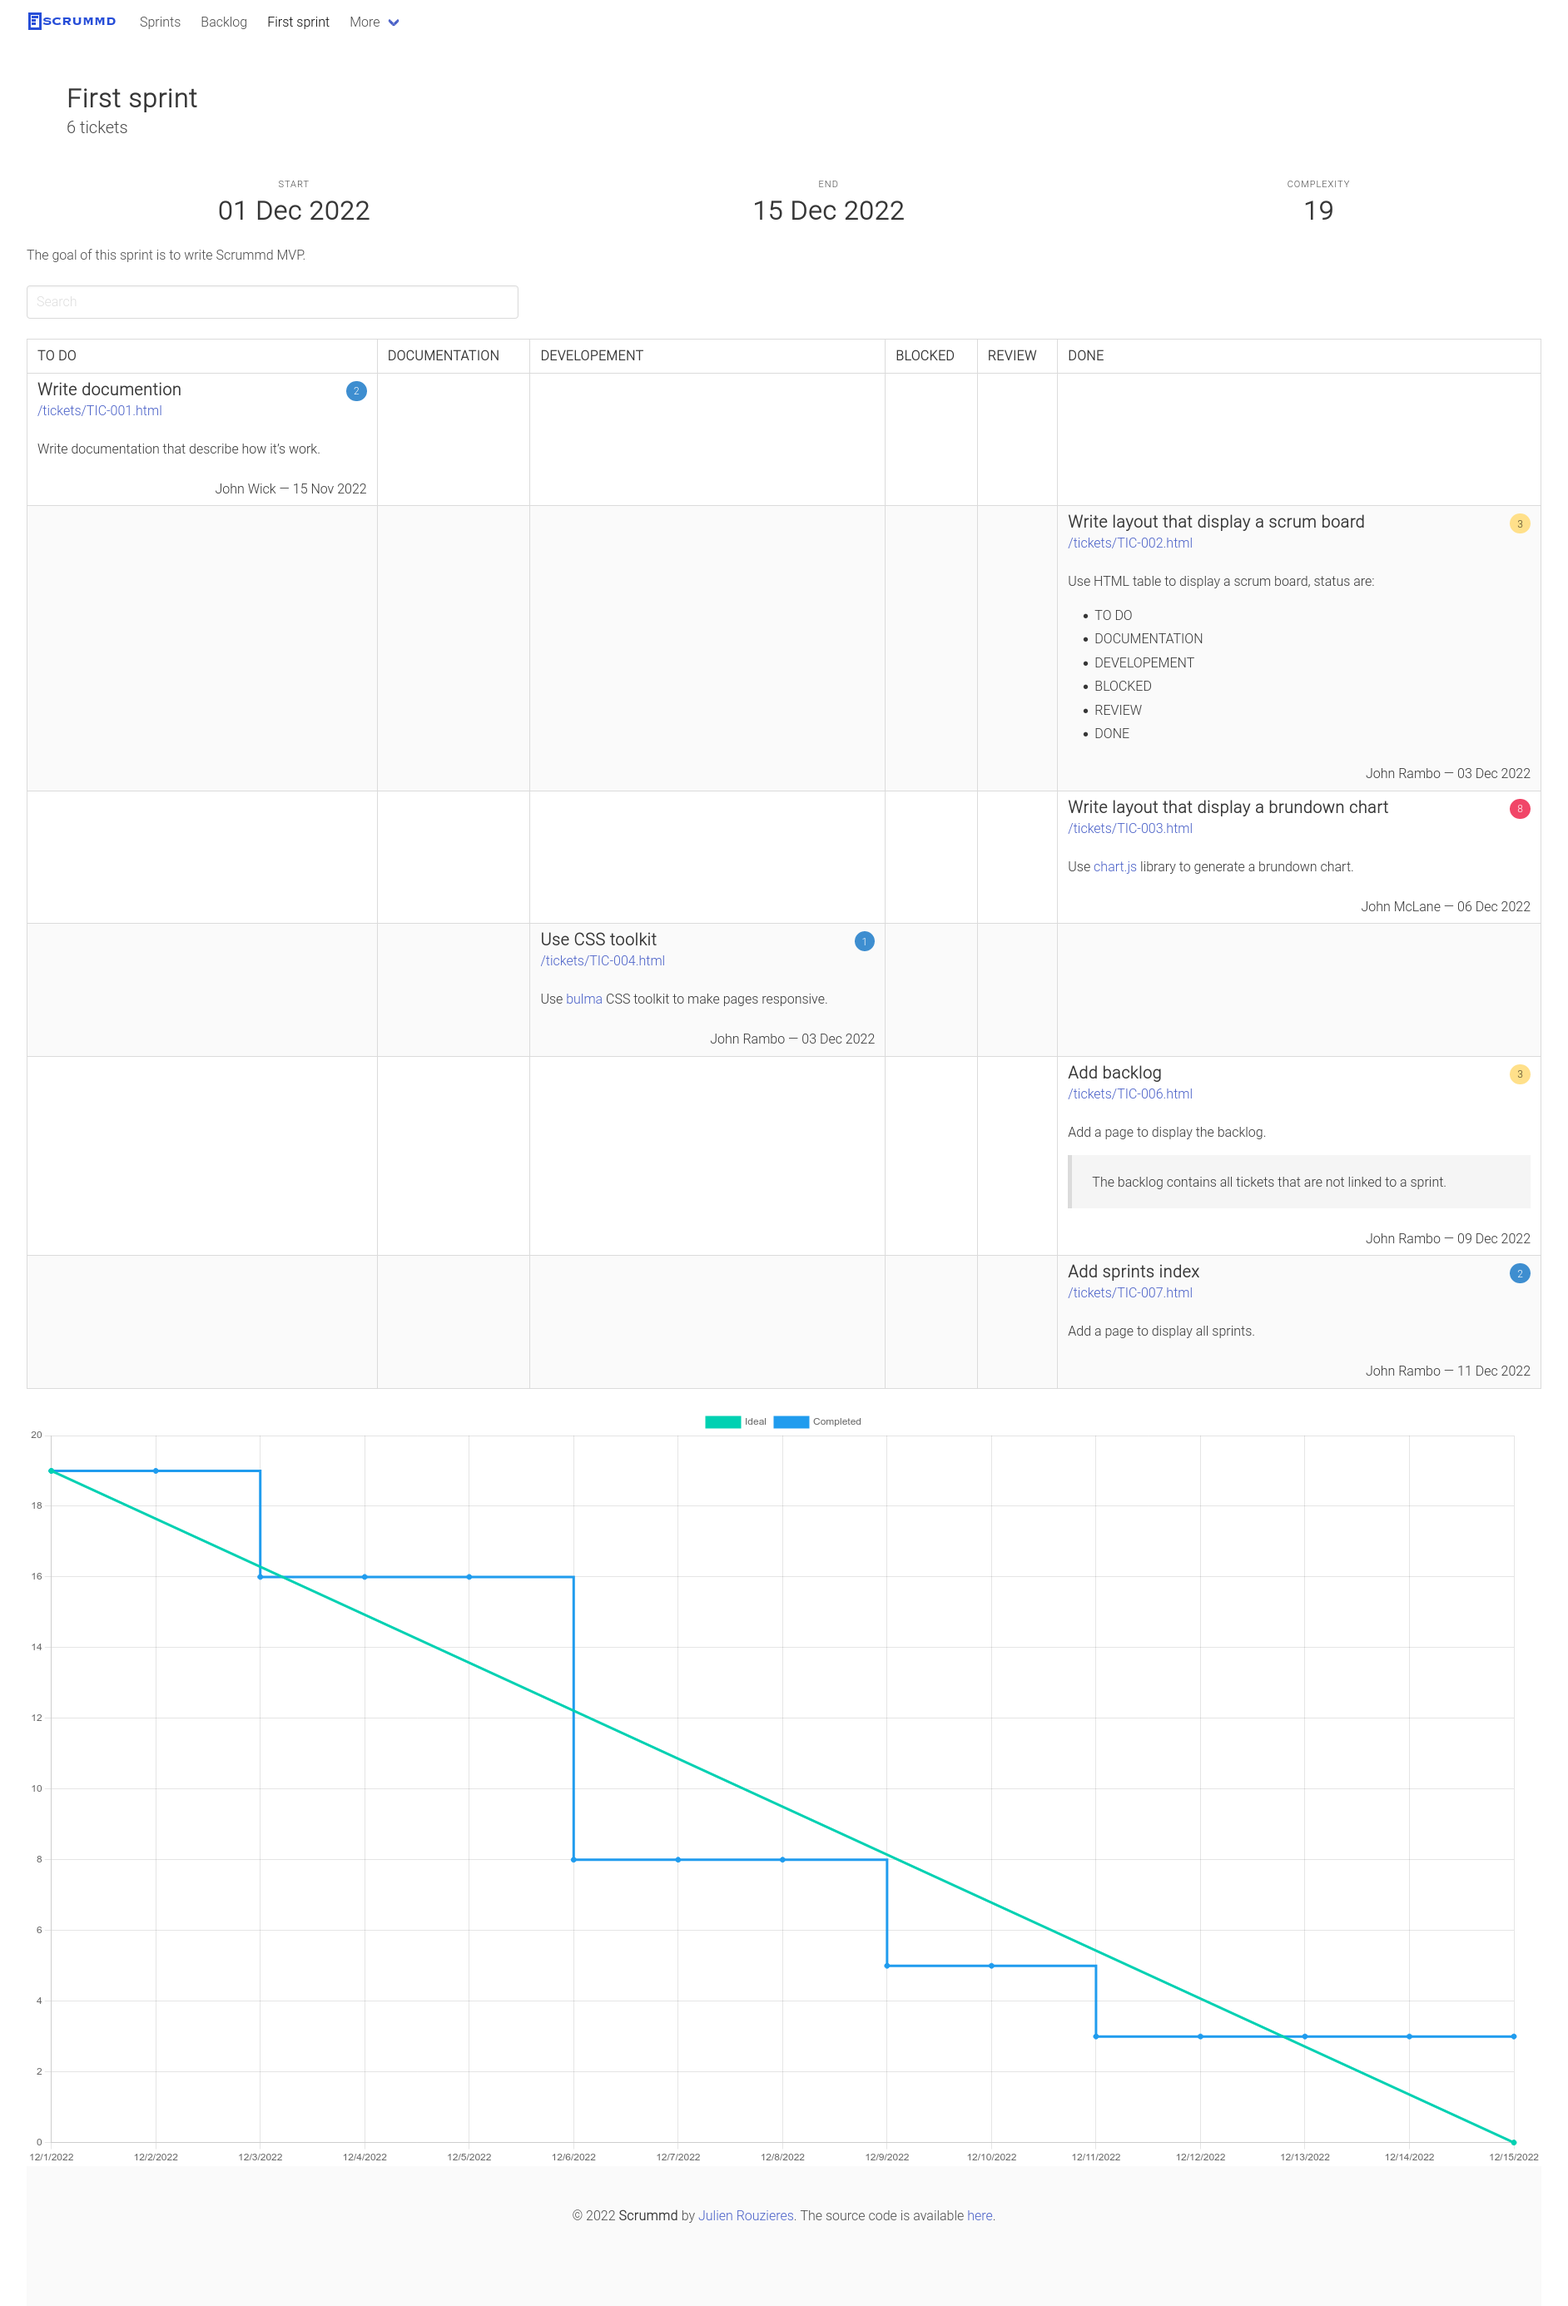
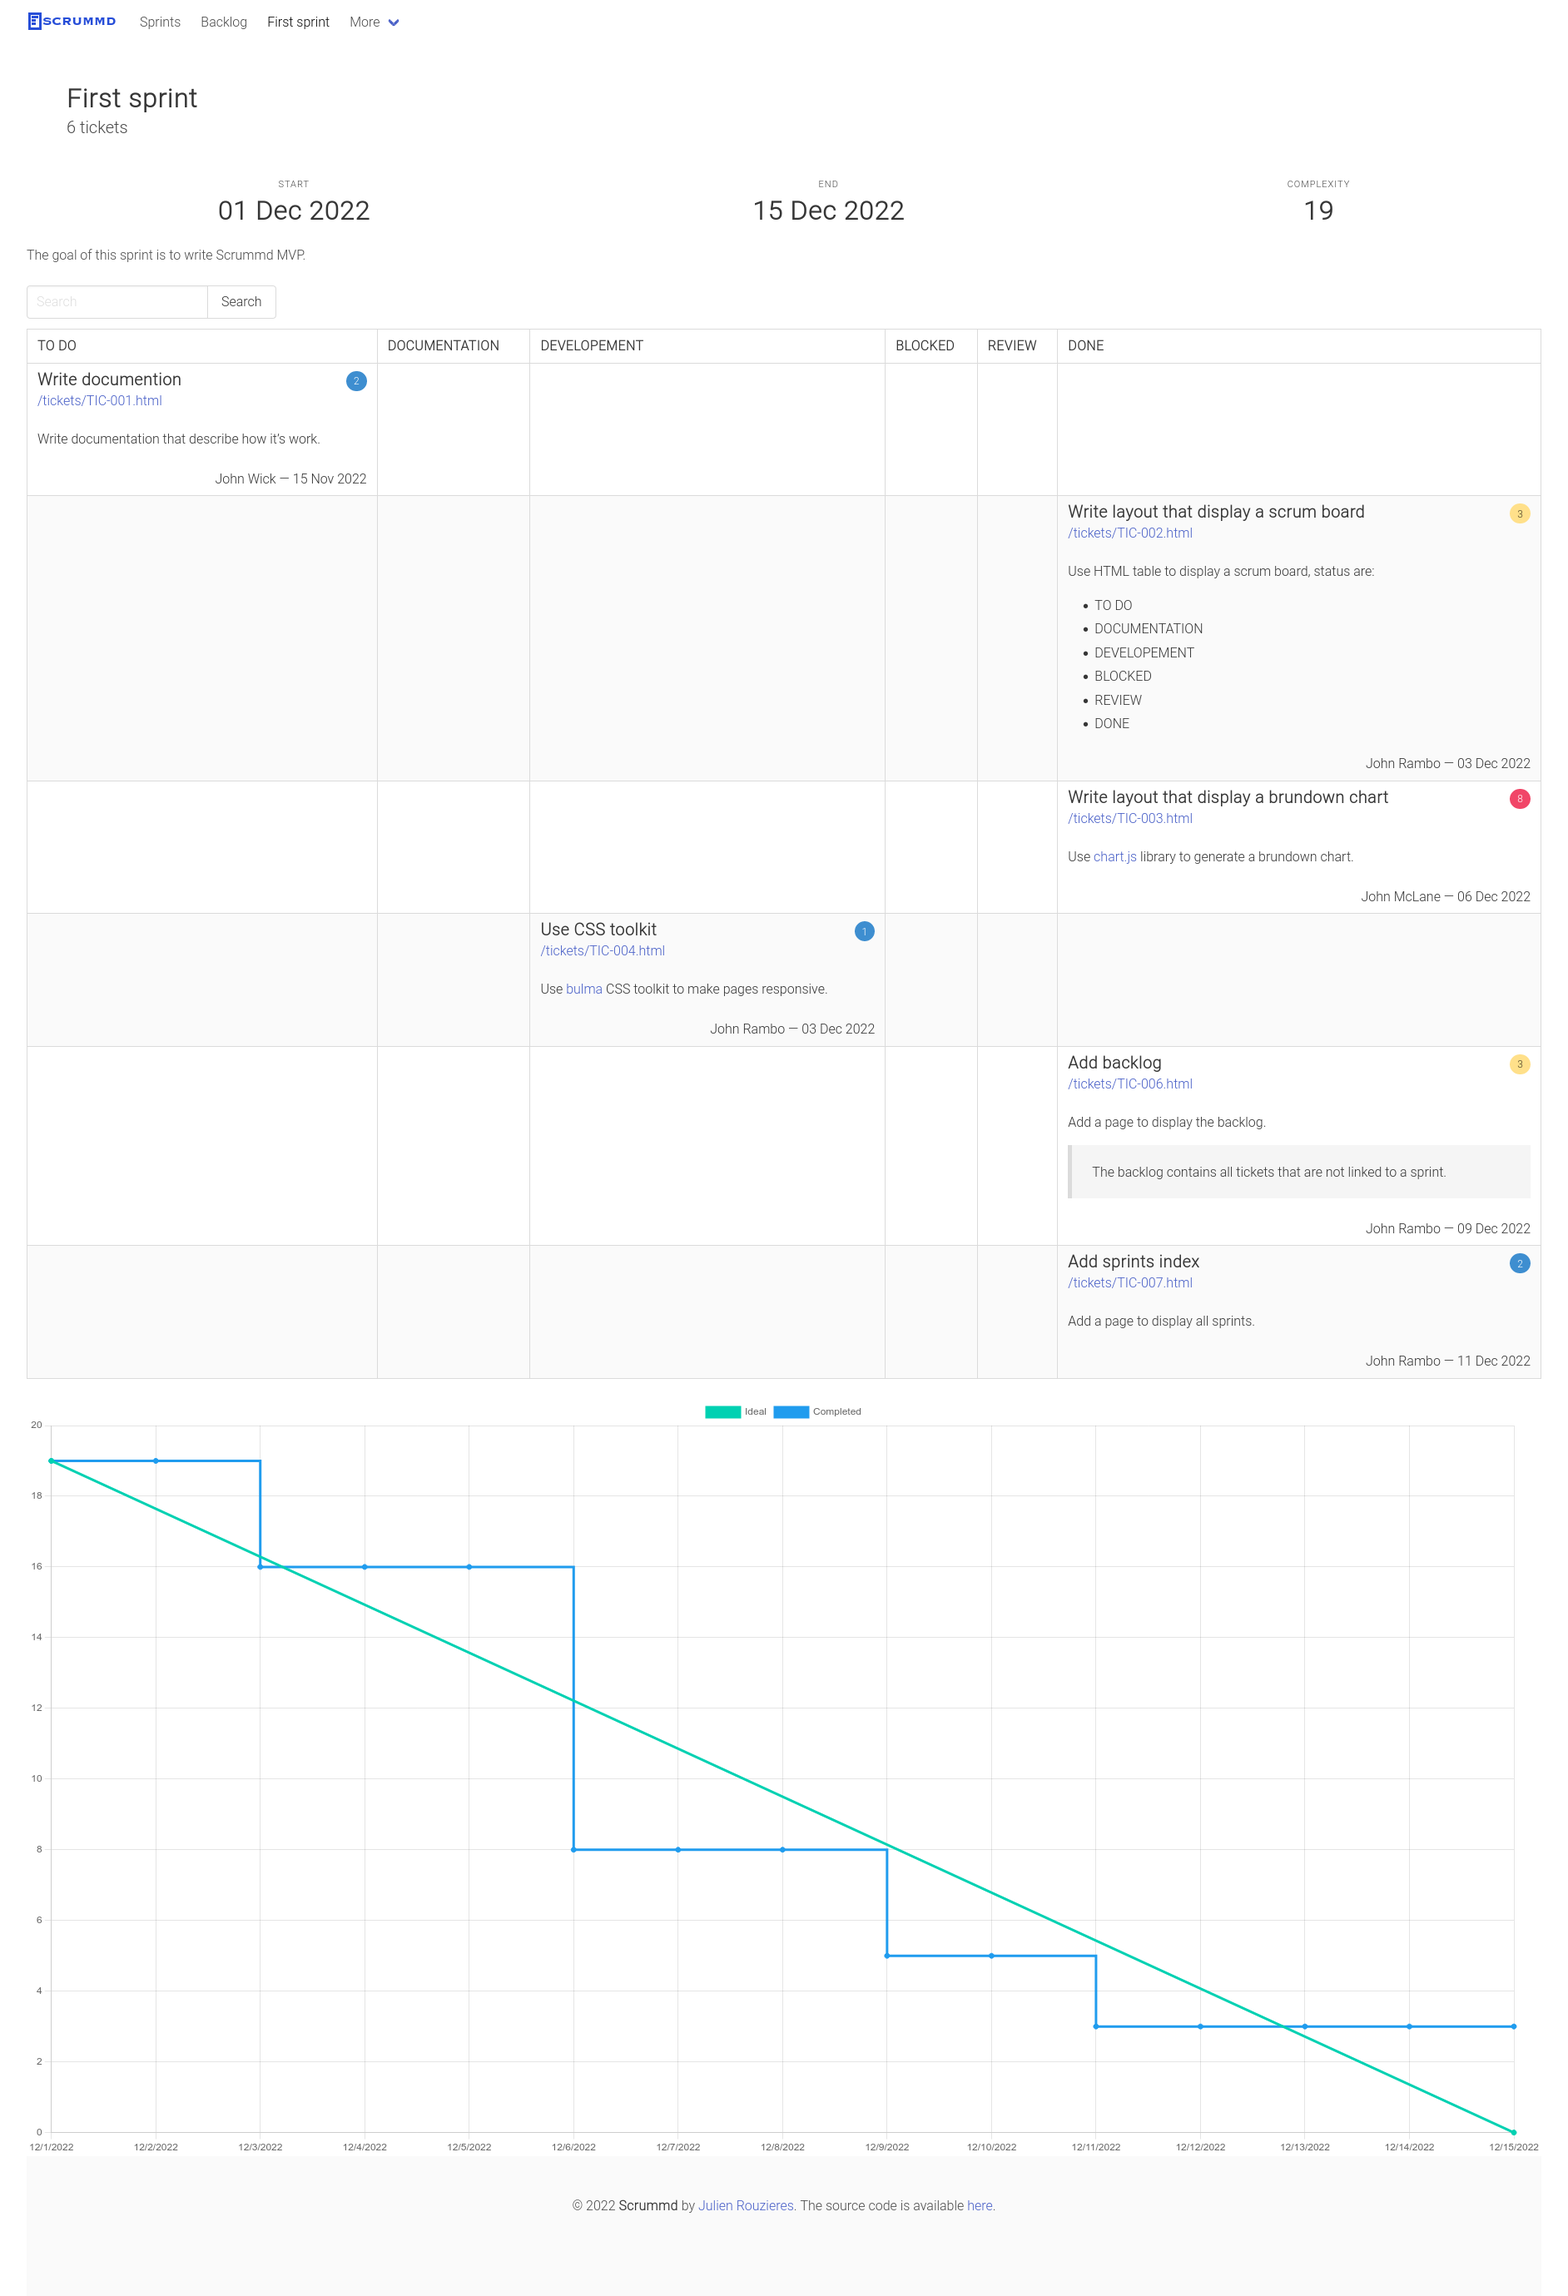
Add search button

diff --git a/_includes/search.html b/_includes/search.html
@@ -1,5 +1,8 @@
-<div class="columns">
-	<div class="column is-4">
+<div class="field has-addons">
+	<div class="control">
 		<input id="search" class="input" type="text" placeholder="Search">
+	</div>
+	<div class="control">
+		<a class="button">Search</a>
 	</div>
 </div>
